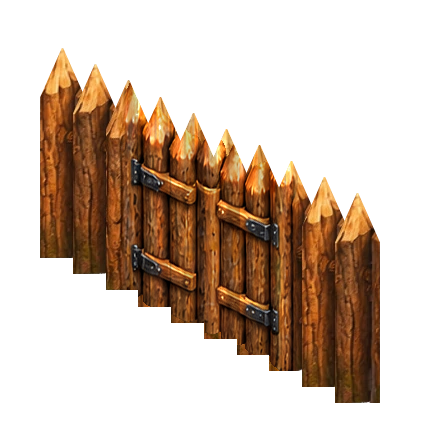
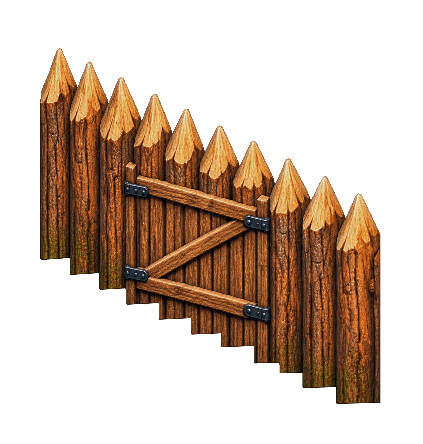
feat(art): stage 1 independent AI palisade gate candidates for SE and SW
Register two RGBA sprites to accepted palisade v5 projection, preserve renderer anchors, and invalidate only the affected image and scene caches. Keep remaining directions and all existing walls unchanged pending visual approval.

Changed region(s): [[0.0922, 0.0878, 0.922, 0.9077]]

diff --git a/index.html b/index.html
@@ -408,11 +408,11 @@ Ihre Form wird ausschließlich im Bergwerkzeug eingestellt. Ihre Deckkraft folgt
 window.VedrasCloudsDisabled=new URLSearchParams(location.search).get('clouds')!=='1';</script>
 <script src="asset-image-pool.js?v=0.3.1&amp;step11=20261028"></script><script src="render-quality-policy.js?v=0.1.0&amp;terrain=quality-source-20261117"></script><script src="gpu-terrain.js?v=0.2.0&amp;uvHighp=20261122"></script><script src="strategic-view.js?v=0.1.0"></script><script src="static-terrain-cache.js?v=0.1.0"></script><script src="render-benchmark-profiler.js?v=0.1.0"></script>
 <script src="render-step15-trace.js?v=0.1.0"></script>
-<script src="sprite-atlas-runtime.js?v=0.3.0"></script><script src="worldgen-geography.js?v=2.1.2"></script><script src="geography-io.js?v=20261120-io-v1"></script><script src="catalog.js?v=0.18.0"></script><script src="terrain-source-rules.js?v=0.18.0"></script><script src="water-texture.js?v=20261119-forest-seamless-v2"></script><script src="autotile.js?v=20261119-ground-wrap-v1"></script><script src="chunks.js?v=0.37.1&amp;step16b=20261101-offscreen1"></script><script src="terrain-worker-client.js?v=20261119-ground-wrap-v1"></script><script src="nature_catalog.js?v=20261121-desert-trees-v1"></script><script src="flora-plan.js?v=0.17.0"></script><script src="terrain-plan.js?v=0.18.0"></script><script src="sprite-planner.js?v=0.16.0"></script><script src="existing-asset-rules.js?v=20261121-desert-trees-v1"></script><script src="forest.js?v=20261122-canopy-variation-v1"></script><script src="forest-ground.js?v=20261120-organic-v1&amp;softSnow=20261122"></script><script src="nature-balance.js?v=0.36.1"></script><script src="polish.js?v=0.21.0"></script><script src="relief.js?v=0.35.0"></script><script src="shoreline.js?v=0.30.1&amp;artfix=20261027"></script><script src="river.js?v=0.30.0"></script><script src="river-banks.js?v=0.2.0"></script><script src="mountain.js?v=0.11.0"></script><script src="roads.js?v=0.31.0"></script><script src="walls.js?v=20261124-palisade-gates-ai-v4"></script><script src="bridges.js?v=0.28.0"></script><script src="shadow-tone.js?v=20261122-shadow-union-v1"></script><script src="shadow-system.js?v=20261122-gray-all-v1"></script><script src="shadow-shapes.js?v=20261122-gray-all-v1"></script><script src="sprite-shadow-editor.js?v=20261122-shadow-union-v1"></script><script src="shadow-painter-ui.js?v=0.1.0"></script><script src="object-layout-cache.js?v=0.2.0"></script><script src="static-object-layer.js?v=0.2.0"></script><script src="gpu-sprite-layer.js?v=0.1.0"></script><script src="frame-preparation-cache.js?v=0.1.0"></script><script src="adaptive-lod.js?v=0.1.1&amp;step10=20261027"></script><script src="realtime-map-renderer.js?v=0.1.1"></script><script src="cloud-artwork.js?v=0.22.4&amp;step12=20261028"></script><script src="fog-atmosphere.js?v=0.22.4"></script><script src="quick-terrain-preview.js?v=20261101-1"></script>
+<script src="sprite-atlas-runtime.js?v=0.3.0"></script><script src="worldgen-geography.js?v=2.1.2"></script><script src="geography-io.js?v=20261120-io-v1"></script><script src="catalog.js?v=0.18.0"></script><script src="terrain-source-rules.js?v=0.18.0"></script><script src="water-texture.js?v=20261119-forest-seamless-v2"></script><script src="autotile.js?v=20261119-ground-wrap-v1"></script><script src="chunks.js?v=0.37.1&amp;step16b=20261101-offscreen1"></script><script src="terrain-worker-client.js?v=20261119-ground-wrap-v1"></script><script src="nature_catalog.js?v=20261121-desert-trees-v1"></script><script src="flora-plan.js?v=0.17.0"></script><script src="terrain-plan.js?v=0.18.0"></script><script src="sprite-planner.js?v=0.16.0"></script><script src="existing-asset-rules.js?v=20261121-desert-trees-v1"></script><script src="forest.js?v=20261122-canopy-variation-v1"></script><script src="forest-ground.js?v=20261120-organic-v1&amp;softSnow=20261122"></script><script src="nature-balance.js?v=0.36.1"></script><script src="polish.js?v=0.21.0"></script><script src="relief.js?v=0.35.0"></script><script src="shoreline.js?v=0.30.1&amp;artfix=20261027"></script><script src="river.js?v=0.30.0"></script><script src="river-banks.js?v=0.2.0"></script><script src="mountain.js?v=0.11.0"></script><script src="roads.js?v=0.31.0"></script><script src="walls.js?v=20261124-palisade-gates-ai-v4&amp;southGates=20261124-stage1-v5"></script><script src="bridges.js?v=0.28.0"></script><script src="shadow-tone.js?v=20261122-shadow-union-v1"></script><script src="shadow-system.js?v=20261122-gray-all-v1"></script><script src="shadow-shapes.js?v=20261122-gray-all-v1"></script><script src="sprite-shadow-editor.js?v=20261122-shadow-union-v1"></script><script src="shadow-painter-ui.js?v=0.1.0"></script><script src="object-layout-cache.js?v=0.2.0"></script><script src="static-object-layer.js?v=0.2.0"></script><script src="gpu-sprite-layer.js?v=0.1.0"></script><script src="frame-preparation-cache.js?v=0.1.0"></script><script src="adaptive-lod.js?v=0.1.1&amp;step10=20261027"></script><script src="realtime-map-renderer.js?v=0.1.1"></script><script src="cloud-artwork.js?v=0.22.4&amp;step12=20261028"></script><script src="fog-atmosphere.js?v=0.22.4"></script><script src="quick-terrain-preview.js?v=20261101-1"></script>
 <script src="frozen-map-package.js?v=20261101-2"></script>
 <script src="authored-world-contract.js?v=20261118-semantic-world-v1"></script>
 <script src="frozen-map-runtime.js?v=20261118-near-archive-audit-v4&amp;edgePolicy=20261119&amp;linkedAudit=20261122&amp;coreScene=20261122"></script>
 <script src="frozen-ground-core-seams.js?v=20261120-owned-core-gate-v1&amp;hexTip=20261122"></script>
 <script src="world-tile-streamer.js?v=0.22.6&amp;fix=exact-lod-20261117&amp;clouds=off-20261120&amp;coreFilter=20261122"></script>
-<script src="world-tile-ground-reuse.js?v=0.1.0"></script><script src="app.js?v=20261120-organic-v1&amp;diagnostics=20261121&amp;shadows=partial-20261121&amp;edgeCore=20261122&amp;localPreview=20261122&amp;softSnow=20261122&amp;grayAll=20261122&amp;shadowUnion=20261122&amp;footGate=20261122&amp;walls=20261124-palisade-gates-ai-v4&amp;coreScene=20261122&amp;geography=2.1.2&amp;geographyIO=20261120&amp;clouds=off-20261120"></script><script src="nature-ui.js?v=20261122-open-trees-v1&amp;alpineShrubs=20261122&amp;wallClear=20261124"></script><script src="road-ui.js?v=0.28.0"></script><script src="wall-ui.js?v=20261124-palisade-gates-ai-v4"></script><script src="ui-organizer.js?v=20261122-shadow-gray-shortcut-v1"></script><script src="forest-ui.js?v=20261122-canopy-variation-v1"></script><script src="river-ui.js?v=0.15.0"></script><script src="flora-workspace.js?v=0.13.0"></script>
+<script src="world-tile-ground-reuse.js?v=0.1.0"></script><script src="app.js?v=20261120-organic-v1&amp;diagnostics=20261121&amp;shadows=partial-20261121&amp;edgeCore=20261122&amp;localPreview=20261122&amp;softSnow=20261122&amp;grayAll=20261122&amp;shadowUnion=20261122&amp;footGate=20261122&amp;walls=20261124-palisade-gates-ai-v4&amp;southGates=20261124-stage1-v5&amp;coreScene=20261122&amp;geography=2.1.2&amp;geographyIO=20261120&amp;clouds=off-20261120"></script><script src="nature-ui.js?v=20261122-open-trees-v1&amp;alpineShrubs=20261122&amp;wallClear=20261124"></script><script src="road-ui.js?v=0.28.0"></script><script src="wall-ui.js?v=20261124-palisade-gates-ai-v4"></script><script src="ui-organizer.js?v=20261122-shadow-gray-shortcut-v1"></script><script src="forest-ui.js?v=20261122-canopy-variation-v1"></script><script src="river-ui.js?v=0.15.0"></script><script src="flora-workspace.js?v=0.13.0"></script>
 </body></html>

diff --git a/walls.js b/walls.js
@@ -331,7 +331,8 @@ window.VedrasWalls=(()=>{
    const image=new Image();palisadeGateArt.set(side,image);
    pending.push(new Promise(resolve=>{
     image.onload=()=>resolve(true);image.onerror=()=>resolve(false);
-    image.src='assets/walls/palisade/gates/v1/gate_dir'+side+'.png?v=20261124-timber-gates-ai-v4';
+    image.src='assets/walls/palisade/gates/v1/gate_dir'+side+'.png?v='+
+     ((side===2||side===3)?'20261124-timber-gates-south-stage1-v5':'20261124-timber-gates-ai-v4');
    }));
   }
   for(const name of ['corner_post','end_post']){

diff --git a/app.js b/app.js
@@ -4422,6 +4422,7 @@ function frozenSceneKey({force4x=false}={}){
   'palisade-closed-gates-v1',
   'palisade-native-rgba-gates-v2',
   'palisade-ai-painted-gates-v4',
+  'palisade-ai-south-stage1-v5',
   'forest-floor-wrap-v1',
   'organic-forest-fringes-and-soft-snow-v4',
   // Strict source-core alpha stabilization and read-only seam publication

diff --git a/assets/walls/palisade/gates/v1/README.md b/assets/walls/palisade/gates/v1/README.md
@@ -1,3 +1,7 @@
-# Closed palisade gates — AI-painted v4
+# Closed palisade gates — stage 1 (south-east and south-west)
 
-Original v5 palisade raster sprites are the base. Only the gate centers use AI-painted image parts, calibrated to the original timber palette and projected slope. The original outer stakes, image dimensions and anchors remain unchanged. The diagonal alpha silhouette is identical to its original source (NW is the requested SO reuse). East/west have a widened central assembly with unchanged ends. All six active assets are transparent PNGs; no SVG or drawn vector door elements. NW (5) reuses SO (2) byte-for-byte. The reproducible compositing script is scripts/compose_palisade_ai_v4.py, with source_atlas_v4.png. The corrected affine composition keeps the timber braces straight. Existing walls, posts, stone gates and vegetation logic remain unchanged. Visual approval in the actual editor is pending.
+**Pending visual approval.** Only `gate_dir2.png` and `gate_dir3.png` are replaced in this stage. The reference artwork is the accepted `edge_dir2.webp` and `edge_dir3.webp` from PR #182, commit `c2831d0b4709fff10a6293bb7bbd20e110964f43`. The two candidates are independent AI-generated raster images, technically calibrated against those references by whole-image projective registration, alpha cleanup and modest palette adjustment. No wall pixels or different gate graphics are composited into them.
+
+Both files are 423 × 444 RGBA PNGs, with the existing render anchors unchanged. Opaque interiors were verified, and the sprites were examined against light, dark and green backgrounds. Outer stake textures and individual silhouette steps are redrawn by the model, so these test candidates are not pixel-identical to the accepted walls. The end-stake foot positions are registered to within one raster pixel; visual continuity and any remaining differences require editor review.
+
+Directions 0, 1, 4 and 5 retain their previous images pending stage 2 and are not approved; direction 5 intentionally does not yet reuse the new direction 2. Original palisades, masonry, stone gates, junctions, shadows and vegetation clearance logic are unchanged. Do not regenerate these two files with the historical v4 composition script or use those previous gate assets as new visual references.
